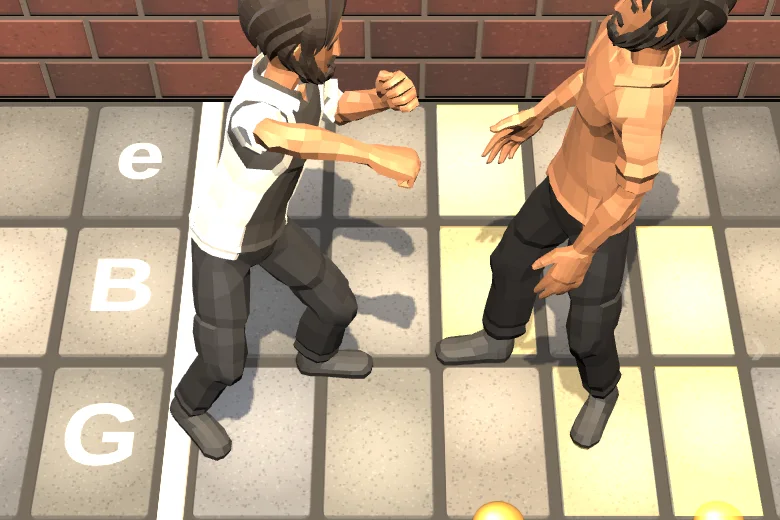
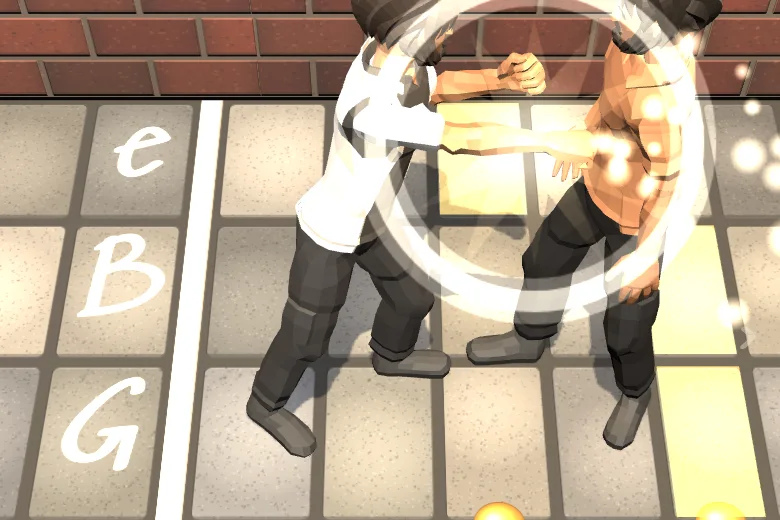
Fret Fighter: graffiti lettering written on the wall and floor, new arcade button

diff --git a/fret-fighter.html b/fret-fighter.html
@@ -11,80 +11,101 @@
 <meta name="application-name" content="Echo Alpha Delta">
 <title>Fret Fighter | Echo Alpha Delta</title>
 <link rel="preconnect" href="https://fonts.googleapis.com">
-<link href="https://fonts.googleapis.com/css2?family=Big+Shoulders+Display:wght@700;900&display=swap" rel="stylesheet">
+<link href="https://fonts.googleapis.com/css2?family=Sedgwick+Ave&family=Sedgwick+Ave+Display&display=swap" rel="stylesheet">
 <style>
+/* Everything is written on the alley: tags in spray paint, notes in marker, nothing set in boxes */
 * { box-sizing: border-box; -webkit-tap-highlight-color: transparent; }
 html, body { margin: 0; padding: 0; background: #0b0806; overflow: hidden; }
-body { color: #f3ead6; font-family: 'Big Shoulders Display', sans-serif; -webkit-user-select: none; user-select: none; }
+body { color: #f4efe4; font-family: 'Sedgwick Ave', cursive; -webkit-user-select: none; user-select: none; }
 .wrap { max-width: 520px; margin: 0 auto; position: relative; }
-.top { display: flex; justify-content: space-between; align-items: center; height: 34px; padding: 0 12px; font-weight: 700; font-size: 16px; letter-spacing: 2px; }
-.top a, .top button { color: #8a8494; text-decoration: none; background: none; border: none; padding: 0; font: inherit; cursor: pointer; }
+.top { display: flex; justify-content: space-between; align-items: center; height: 34px; padding: 0 12px; font-size: 17px; }
+.top a, .top button { color: #9a9284; text-decoration: none; background: none; border: none; padding: 0; font: inherit; cursor: pointer; }
+.top a { transform: rotate(-2deg); } .top button { transform: rotate(1.5deg); }
 .stage { position: relative; overflow: hidden; touch-action: none; }
 #cv { display: block; width: 100%; height: 100%; cursor: pointer; }
-/* the fight card over the top of the scene */
-.hud { position: absolute; left: 0; right: 0; top: 0; pointer-events: none; padding: 8px 14px 0; background: linear-gradient(rgba(8,6,4,0.92), rgba(8,6,4,0.55) 70%, rgba(8,6,4,0)); }
+/* paint: a soft overspray halo round every tag so it reads on brick */
+.paint { text-shadow: 0 0 2px rgba(10,6,4,0.9), 0 0 10px rgba(10,6,4,0.7), 0 0 22px rgba(10,6,4,0.45); }
+.hud { position: absolute; left: 0; right: 0; top: 0; pointer-events: none; height: 250px; }
 .hud.hidden { display: none; }
-.names { display: flex; justify-content: space-between; align-items: flex-end; font-weight: 900; font-size: 20px; line-height: 1; }
-.bars { display: flex; justify-content: space-between; align-items: center; gap: 10px; margin-top: 6px; }
-.bar { flex: 1; height: 9px; background: #1c1a22; position: relative; }
-.bar i { position: absolute; top: 1px; bottom: 1px; left: 1px; background: #e8e0d0; transition: width 0.25s; }
-.bar.r i { left: auto; right: 1px; }
-.bar i.low { background: #ffcc44; }
-.clock { font-weight: 700; font-size: 16px; color: #8a8494; min-width: 40px; text-align: center; }
-.call { text-align: center; margin-top: 6px; }
-.call .chord { font-weight: 900; font-size: 84px; line-height: 0.95; }
-.call .zone { font-weight: 900; font-size: 22px; color: #ffcc44; letter-spacing: 1px; }
-.call .zone.danger { color: #ff9a6a; }
-.prog { display: flex; justify-content: center; gap: 6px; margin-top: 6px; font-weight: 700; font-size: 15px; color: #8a8494; }
-.prog span { padding: 1px 6px; border: 1px solid #3a3640; }
-.prog span.now { color: #f3ead6; border-color: #f3ead6; }
-.prog span.done { color: #ffcc44; border-color: #ffcc44; }
-.timer { height: 4px; margin: 8px auto 0; width: 60%; background: #1c1a22; }
-.timer i { display: block; height: 100%; width: 100%; background: #ff9a6a; }
+.tagname { position: absolute; top: 4px; font-size: 22px; line-height: 1; }
+.tagname.l { left: 12px; transform: rotate(-4deg); } .tagname.r { right: 12px; transform: rotate(3deg); }
+/* health is a sprayed stroke that gets scrubbed away from its far end */
+.stroke { position: absolute; top: 32px; width: 40%; height: 12px; }
+.stroke.l { left: 10px; transform: rotate(-1.5deg); } .stroke.r { right: 10px; transform: rotate(1.2deg); }
+.stroke i { position: absolute; top: 0; bottom: 0; left: 0; background: #f4efe4; border-radius: 6px 3px 7px 2px; box-shadow: 0 0 6px rgba(244,239,228,0.45); transition: width 0.25s; }
+.stroke i::after { content: ''; position: absolute; right: -6px; top: 1px; width: 10px; height: 10px; border-radius: 50%; background: inherit; opacity: 0.7; }
+.stroke.r i { left: auto; right: 0; }
+.stroke.r i::after { right: auto; left: -6px; }
+.stroke i.low { background: #ffcc44; box-shadow: 0 0 6px rgba(255,204,68,0.5); }
+.clock { position: absolute; top: 22px; left: 0; right: 0; text-align: center; font-size: 18px; color: #b8b0a2; transform: rotate(-1deg); }
+/* the call: the chord sprayed big and crooked, the zone scrawled under it */
+.call { position: absolute; top: 66px; left: 0; right: 0; text-align: center; }
+.call .chord { display: inline-block; font-family: 'Sedgwick Ave Display', cursive; font-size: 104px; line-height: 0.9; transform: rotate(-5deg); }
+.call .zone { font-size: 30px; color: #ffcc44; transform: rotate(2.5deg) translateX(18px); margin-top: -6px; }
+.call .zone.danger { color: #ff9a6a; transform: rotate(-2deg) translateX(-14px); }
+/* the progression, chalked; chords you've landed are struck through */
+.prog { display: flex; justify-content: center; gap: 16px; margin-top: 2px; font-size: 22px; color: #9a9284; }
+.prog span { position: relative; }
+.prog span:nth-child(odd) { transform: rotate(-4deg); } .prog span:nth-child(even) { transform: rotate(3deg) translateY(2px); }
+.prog span.now { color: #f4efe4; }
+.prog span.done { color: #ffcc44; }
+.prog span.done::after { content: ''; position: absolute; left: -5px; right: -5px; top: 52%; height: 3px; background: #ffcc44; transform: rotate(-12deg); border-radius: 2px; }
+.timer { height: 5px; margin: 10px auto 0; width: 58%; transform: rotate(-1deg); }
+.timer i { display: block; height: 100%; width: 100%; background: #ff9a6a; border-radius: 3px; }
 .timer.off { visibility: hidden; }
-.msg { position: absolute; left: 0; right: 0; bottom: 18px; text-align: center; font-weight: 900; font-size: 26px; pointer-events: none; text-shadow: 0 2px 6px rgba(0,0,0,0.9); opacity: 0; transition: opacity 0.2s; }
-.msg.on { opacity: 1; }
-.msg small { display: block; font-weight: 700; font-size: 16px; color: #d8d0c0; margin-top: 2px; }
-.pan { position: absolute; bottom: 50%; font-weight: 900; font-size: 28px; color: rgba(243,234,214,0.35); pointer-events: none; }
+.msg { position: absolute; left: 0; right: 0; bottom: 22px; text-align: center; font-family: 'Sedgwick Ave Display', cursive; font-size: 46px; line-height: 1; pointer-events: none; opacity: 0; transform: rotate(-4deg) scale(0.9); transition: opacity 0.15s, transform 0.15s; }
+.msg.on { opacity: 1; transform: rotate(-4deg) scale(1); }
+.msg small { display: block; font-family: 'Sedgwick Ave', cursive; font-size: 20px; color: #e4dccc; margin-top: 6px; transform: rotate(3deg); }
+.pan { position: absolute; bottom: 50%; font-size: 34px; color: rgba(244,239,228,0.4); pointer-events: none; }
 .pan.l { left: 6px; } .pan.r { right: 6px; }
-/* the card between fights */
-.over { position: absolute; inset: 0; z-index: 5; background: rgba(8,6,4,0.9); padding: 26px 22px; overflow: auto; }
+/* between fights: no panel, just a darker patch of wall with the writing on it */
+.over { position: absolute; inset: 0; z-index: 5; background: radial-gradient(ellipse 90% 70% at 45% 40%, rgba(8,5,3,0.86), rgba(8,5,3,0.55)); overflow: auto; padding: 18px 16px 30px; }
 .over.hidden { display: none; }
-.over h1 { margin: 0; font-weight: 900; font-size: 64px; line-height: 0.9; letter-spacing: -1px; }
-.over .kick { font-weight: 700; font-size: 15px; letter-spacing: 4px; color: #8a8494; margin-bottom: 8px; }
-.over p { margin: 0 0 12px; font-family: Georgia, serif; font-size: 16px; line-height: 1.45; color: #ddd6c8; }
-.over p b { color: #ffcc44; font-family: 'Big Shoulders Display', sans-serif; font-weight: 900; font-size: 18px; letter-spacing: 0.5px; }
-.over .big { font-weight: 900; font-size: 72px; line-height: 1; margin: 6px 0; }
-.over table { border-collapse: collapse; margin: 6px 0 14px; font-weight: 700; font-size: 18px; }
-.over td { padding: 1px 16px 1px 0; } .over tr.me td { color: #ffcc44; }
-.go { display: inline-block; margin: 6px 10px 14px 0; padding: 10px 22px 8px; background: #f3ead6; color: #0b0806; font-weight: 900; font-size: 22px; letter-spacing: 2px; cursor: pointer; }
-.go.alt { background: none; color: #f3ead6; border: 2px solid #f3ead6; }
-.ini { display: flex; gap: 10px; align-items: center; margin: 4px 0 14px; }
-.ini input { width: 110px; font: inherit; font-weight: 900; font-size: 34px; letter-spacing: 4px; text-transform: uppercase; background: none; color: #f3ead6; border: none; border-bottom: 3px solid #f3ead6; border-radius: 0; padding: 0 0 0 2px; }
+.over .title { font-family: 'Sedgwick Ave Display', cursive; font-size: 92px; line-height: 0.82; margin: 22px 0 0 -2px; transform: rotate(-7deg); transform-origin: 0 50%; }
+.over .title span { display: block; margin-left: 50px; }
+.over .crew { font-size: 18px; color: #9a9284; transform: rotate(4deg); margin: 6px 0 0 150px; }
+.over .note { position: relative; font-size: 21px; line-height: 1.25; margin: 22px 0 0; max-width: 92%; }
+.over .note:nth-of-type(2n) { transform: rotate(-1.6deg); margin-left: 14px; }
+.over .note:nth-of-type(2n+1) { transform: rotate(1.2deg); }
+.over .note b { font-weight: 400; color: #ffcc44; }
+.over .note.num { padding-left: 34px; }
+.over .note .n { position: absolute; left: 0; top: -6px; font-family: 'Sedgwick Ave Display', cursive; font-size: 32px; color: #ffcc44; opacity: 0.85; transform: rotate(-12deg); }
+.over .big { font-family: 'Sedgwick Ave Display', cursive; font-size: 96px; line-height: 0.9; transform: rotate(-4deg); margin: 6px 0 4px 10px; }
+/* the button is a word circled in paint */
+.go { position: relative; display: inline-block; margin: 26px 0 18px 40px; padding: 8px 26px 10px; font-family: 'Sedgwick Ave Display', cursive; font-size: 46px; line-height: 1; color: #f4efe4; cursor: pointer; transform: rotate(-3deg); }
+.go::before { content: ''; position: absolute; inset: -4px -10px; border: 4px solid #ffcc44; border-radius: 52% 46% 55% 43% / 58% 50% 48% 54%; transform: rotate(5deg); }
+.go::after { content: ''; position: absolute; inset: -9px -4px -2px -16px; border: 2px solid rgba(255,204,68,0.55); border-radius: 46% 54% 42% 56% / 50% 58% 46% 52%; transform: rotate(-4deg); }
+.wallnames { margin: 4px 0 10px 18px; font-size: 22px; line-height: 1.35; }
+.wallnames div:nth-child(odd) { transform: rotate(-2deg); } .wallnames div:nth-child(even) { transform: rotate(1.5deg) translateX(10px); }
+.wallnames .me { color: #ffcc44; }
+.wallnames .hd { font-size: 17px; color: #9a9284; }
+.ini { display: flex; gap: 16px; align-items: flex-end; margin: 8px 0 14px 16px; transform: rotate(-2deg); }
+.ini input { width: 120px; font-family: 'Sedgwick Ave Display', cursive; font-size: 46px; letter-spacing: 4px; text-transform: uppercase; background: none; color: #f4efe4; border: none; border-bottom: 3px dashed #f4efe4; border-radius: 0; padding: 0 0 0 4px; }
 .ini input:focus { outline: none; }
-.ini button { background: #f3ead6; color: #0b0806; border: none; padding: 8px 14px; font: inherit; font-weight: 900; font-size: 18px; letter-spacing: 2px; cursor: pointer; }
+.ini button { background: none; border: none; color: #ffcc44; font-family: 'Sedgwick Ave Display', cursive; font-size: 34px; cursor: pointer; padding: 0; }
 .flash { position: absolute; inset: 0; pointer-events: none; background: #fff6e8; opacity: 0; }
-.loading { position: absolute; inset: 0; display: flex; align-items: center; justify-content: center; font-weight: 700; letter-spacing: 3px; color: #8a8494; }
+.loading { position: absolute; inset: 0; display: flex; align-items: center; justify-content: center; font-size: 24px; color: #9a9284; transform: rotate(-3deg); }
 </style>
 <script type="importmap">{ "imports": { "three": "./lib/three.module.min.js", "three/addons/": "./lib/jsm/" } }</script>
 </head>
 <body>
 <div class="wrap">
   <div class="top">
-    <a href="arcade.html">&lt; ARCADE</a>
-    <button id="snd">SOUND ON</button>
+    <a href="arcade.html">&larr; arcade</a>
+    <button id="snd">sound on</button>
   </div>
   <div class="stage" id="stage">
     <canvas id="cv" aria-label="Fret Fighter: the floor is the fretboard"></canvas>
     <div class="hud hidden" id="hud">
-      <div class="names"><span>YOU</span><span>THE BRAWLER</span></div>
-      <div class="bars"><div class="bar"><i id="hpYou" style="width:calc(100% - 2px)"></i></div><span class="clock" id="clock">0:00</span><div class="bar r"><i id="hpHim" style="width:calc(100% - 2px)"></i></div></div>
-      <div class="call"><div class="chord" id="chord">&nbsp;</div><div class="zone" id="zone">&nbsp;</div><div class="prog" id="prog"></div><div class="timer off" id="timer"><i id="timerBar"></i></div></div>
+      <div class="tagname l paint">you</div><div class="tagname r paint">the brawler</div>
+      <div class="stroke l"><i id="hpYou" style="width:100%"></i></div><div class="stroke r"><i id="hpHim" style="width:100%"></i></div>
+      <div class="clock paint" id="clock">0:00</div>
+      <div class="call"><div class="chord paint" id="chord">&nbsp;</div><div class="zone paint" id="zone">&nbsp;</div><div class="prog paint" id="prog"></div><div class="timer off" id="timer"><i id="timerBar"></i></div></div>
     </div>
     <div class="pan l" id="panL">&lsaquo;</div><div class="pan r" id="panR">&rsaquo;</div>
     <div class="flash" id="flash"></div>
-    <div class="msg" id="msg"></div>
-    <div class="loading" id="loading">LOADING</div>
+    <div class="msg paint" id="msg"></div>
+    <div class="loading" id="loading">warming up...</div>
     <div class="over hidden" id="over"></div>
   </div>
 </div>
@@ -279,7 +300,8 @@ const X0 = -1.0, X1 = colEdge(16), Z0 = 0, Z1 = 6 * ROWH;
 const rowZ = s => Z1 - (s + 0.5) * ROWH;                      // centre of a string's row
 const cellX = f => f === 0 ? OPEN / 2 : (colEdge(f) + colEdge(f + 1)) / 2;
 const cellW = f => f === 0 ? OPEN : colEdge(f + 1) - colEdge(f);
-(function floor() {
+async function floor() {
+  try { await Promise.race([document.fonts.load("120px 'Sedgwick Ave'"), new Promise(r => setTimeout(r, 2500))]); } catch (e) {}
   const PPM = 300, CW = Math.round((X1 - X0) * PPM), CH = Math.round((Z1 - Z0) * PPM);
   const tc = document.createElement('canvas'), bc = document.createElement('canvas'); tc.width = bc.width = CW; tc.height = bc.height = CH;
   const g = tc.getContext('2d'), gb = bc.getContext('2d'); g.fillStyle = '#2c2b29'; g.fillRect(0, 0, CW, CH); gb.fillStyle = '#181818'; gb.fillRect(0, 0, CW, CH);
@@ -293,10 +315,11 @@ const cellW = f => f === 0 ? OPEN : colEdge(f + 1) - colEdge(f);
   [3, 5, 7, 9, 15].forEach(f => stud(f, 3)); stud(12, 2); stud(12, 4);
   // string names chalked on the open-string stones, and a fret number chalked small at the front of the marked frets
   g.textAlign = 'center'; g.textBaseline = 'middle';
-  ['E', 'A', 'D', 'G', 'B', 'e'].forEach((n, s) => { g.font = 'bold 120px sans-serif'; g.fillStyle = 'rgba(236,232,222,0.82)'; g.fillText(n, px(OPEN / 2), pz(rowZ(s))); });
+  ['E', 'A', 'D', 'G', 'B', 'e'].forEach((n, s) => { g.save(); g.translate(px(OPEN / 2), pz(rowZ(s))); g.rotate(-0.12 + (s % 2) * 0.16); g.font = "150px 'Sedgwick Ave', cursive"; g.fillStyle = 'rgba(240,236,226,0.85)'; g.fillText(n, 0, 0); g.restore(); });
   const t = texOf(tc, true), mesh = new THREE.Mesh(new THREE.PlaneGeometry(X1 - X0, Z1 - Z0), new THREE.MeshStandardMaterial({ map: t, bumpMap: texOf(bc), bumpScale: 2.5, roughness: 0.9 }));
   mesh.rotation.x = -Math.PI / 2; mesh.position.set((X0 + X1) / 2, 0, (Z0 + Z1) / 2); mesh.receiveShadow = true; scene.add(mesh);
-})();
+}
+await floor();
 
 // light laid on the stones: a row hint, and the cells of a shape when it lands
 const glows = [];
@@ -346,16 +369,16 @@ function ctxA() { return ac || (ac = new (window.AudioContext || window.webkitAu
 function note(midi, when, dur, vol) { if (!soundOn) return; try { const a = ctxA(), t = a.currentTime + (when || 0), o = a.createOscillator(), g = a.createGain(); o.type = 'triangle'; o.frequency.value = 440 * Math.pow(2, (midi - 69) / 12); g.gain.setValueAtTime(0.0001, t); g.gain.exponentialRampToValueAtTime(vol || 0.1, t + 0.01); g.gain.exponentialRampToValueAtTime(0.0001, t + (dur || 0.6)); o.connect(g); g.connect(a.destination); o.start(t); o.stop(t + (dur || 0.6) + 0.05); } catch (e) {} }
 function thud(vol, cut) { if (!soundOn) return; try { const a = ctxA(), n = a.createBufferSource(), b = a.createBuffer(1, a.sampleRate * 0.25, a.sampleRate), d = b.getChannelData(0); for (let i = 0; i < d.length; i++) d[i] = (Math.random() * 2 - 1) * Math.pow(1 - i / d.length, 4); n.buffer = b; const f = a.createBiquadFilter(); f.type = 'lowpass'; f.frequency.value = cut || 500; const g = a.createGain(); g.gain.value = vol || 0.6; n.connect(f); f.connect(g); g.connect(a.destination); n.start(); } catch (e) {} }
 const OPEN_MIDI = [40, 45, 50, 55, 59, 64];
-document.getElementById('snd').onclick = () => { soundOn = !soundOn; try { localStorage.setItem(SOUND_KEY, soundOn ? '1' : '0'); } catch (e) {} document.getElementById('snd').textContent = soundOn ? 'SOUND ON' : 'SOUND OFF'; };
+document.getElementById('snd').onclick = () => { soundOn = !soundOn; try { localStorage.setItem(SOUND_KEY, soundOn ? '1' : '0'); } catch (e) {} document.getElementById('snd').textContent = soundOn ? 'sound on' : 'sound off'; };
 try { soundOn = localStorage.getItem(SOUND_KEY) !== '0'; } catch (e) {}
-document.getElementById('snd').textContent = soundOn ? 'SOUND ON' : 'SOUND OFF';
+document.getElementById('snd').textContent = soundOn ? 'sound on' : 'sound off';
 
 // ---- The fight ----------------------------------------------------------------
 let you, him, state = 'loading', hpYou = HP, hpHim = HP, fightT = 0, turnT = 0, keyName = 'G', prog = [], step = 0, streak = 0, turnsSinceTheirs = 0, ask = null, wait = 0, after = null, hits = 0, blocks = 0, misses = 0;
 const $ = id => document.getElementById(id);
 const fmt = s => Math.floor(s / 60) + ':' + (s % 60).toFixed(1).padStart(4, '0');
 function say(big, small, ms) { const m = $('msg'); m.innerHTML = big + (small ? `<small>${small}</small>` : ''); m.classList.add('on'); clearTimeout(say.t); say.t = setTimeout(() => m.classList.remove('on'), ms || 1400); }
-function bars() { $('hpYou').style.width = `calc(${Math.max(0, hpYou)}% - 2px)`; $('hpHim').style.width = `calc(${Math.max(0, hpHim)}% - 2px)`; $('hpYou').className = hpYou < 30 ? 'low' : ''; $('hpHim').className = hpHim < 30 ? 'low' : ''; }
+function bars() { $('hpYou').style.width = Math.max(0, hpYou) + '%'; $('hpHim').style.width = Math.max(0, hpHim) + '%'; $('hpYou').className = hpYou < 30 ? 'low' : ''; $('hpHim').className = hpHim < 30 ? 'low' : ''; }
 function progChips() { const done = streak % 4; $('prog').innerHTML = prog.map((c, i) => `<span class="${i < done ? 'done' : ask && ask.mine && i === step % 4 ? 'now' : ''}">${c[0]}</span>`).join(''); }
 
 function startFight() {
@@ -370,7 +393,7 @@ function yourTurn() {
   const c = prog[step % 4], ok = zonesFor(pcOf(c[0])), z = ok[Math.floor(Math.random() * ok.length)];
   ask = { mine: true, name: c[0], q: c[1], pc: pcOf(c[0]), zone: ZONES[z] };
   state = 'yours'; turnT = 0;
-  $('chord').textContent = ask.name; $('zone').textContent = ask.zone.name + ' OPEN'; $('zone').className = 'zone'; $('timer').className = 'timer off';
+  $('chord').textContent = ask.name; $('zone').textContent = ask.zone.name.toLowerCase() + ' open'; $('zone').className = 'zone'; $('timer').className = 'timer off';
   setHint(ask.zone.string); progChips();
 }
 // his turn: he calls a chord and where he's aiming; block it in time
@@ -378,7 +401,7 @@ function theirTurn() {
   const c = prog[Math.floor(Math.random() * 4)], ok = zonesFor(pcOf(c[0])), z = ok[Math.floor(Math.random() * ok.length)];
   ask = { mine: false, name: c[0], q: c[1], pc: pcOf(c[0]), zone: ZONES[z], limit: Math.max(3.2, 5 - fightT / 60) };
   state = 'theirs'; turnT = 0; turnsSinceTheirs = 0;
-  $('chord').textContent = ask.name; $('zone').textContent = 'BLOCK ' + ask.zone.block; $('zone').className = 'zone danger'; $('timer').className = 'timer';
+  $('chord').textContent = ask.name; $('zone').textContent = 'block ' + ask.zone.block.toLowerCase() + '!'; $('zone').className = 'zone danger'; $('timer').className = 'timer';
   setHint(ask.zone.string); progChips();
 }
 // the zones where this chord's root sits in the first five frets; every note has at least one
@@ -403,10 +426,10 @@ function tapCell(s, f) {
   note(OPEN_MIDI[s] + f, 0, 0.5, 0.08);
   if (state === 'yours') {
     if (s === z.string && pc === ask.pc) return landHit(s, f);
-    if (s !== z.string) { streak = 0; misses++; cellGlow(f, s, '#8a8494', 0.6, 0.6); say('BLOCKED', `He's covering that. ${z.name.toLowerCase()} is the ${STRING_NAMES[z.string]} string`); thud(0.3, 2500); progChips(); return; }
+    if (s !== z.string) { streak = 0; misses++; cellGlow(f, s, '#8a8494', 0.6, 0.6); say('blocked', `he's covering that. ${z.name.toLowerCase()} is the ${STRING_NAMES[z.string]} string`); thud(0.3, 2500); progChips(); return; }
     // right string, wrong fret: you swing at air and he punishes it
     streak = 0; misses++; cellGlow(f, s, '#8a8494', 0.6, 0.6);
-    say('MISSED', `That's ${NOTE_NAMES[pc]}. Find ${ask.name.replace('m', '')} on the ${STRING_NAMES[s]} string`);
+    say('missed!', `that's ${NOTE_NAMES[pc]}. find ${ask.name.replace('m', '')} on the ${STRING_NAMES[s]} string`);
     strike(you, him, z.hit, { zone: z.name, whiff: true }); state = 'busy';
     setTimeout(() => strike(him, you, 'Punch_Right', { zone: 'BODY', power: 0.7, react: 'HitRecieve', onImpact: () => { hurt('you', 6); setTimeout(() => { if (state === 'busy') { state = 'yours'; turnT = 0; } }, 700); } }), 550);
     progChips(); return;
@@ -415,7 +438,7 @@ function tapCell(s, f) {
   if (s === z.string && pc === ask.pc) {
     blocks++; state = 'busy'; hintOn = false; $('timer').className = 'timer off';
     lightShape(z, ask, f, '#e8e0d0');
-    strike(him, you, z.hit, { zone: z.name, guard: true, power: 0.6, onImpact: () => setTimeout(nextTurn, 800) }); say('BLOCKED', `${ask.name} on the ${STRING_NAMES[s]} string`);
+    strike(him, you, z.hit, { zone: z.name, guard: true, power: 0.6, onImpact: () => setTimeout(nextTurn, 800) }); say('blocked!', `${ask.name} on the ${STRING_NAMES[s]} string`);
     return;
   }
   cellGlow(f, s, '#8a8494', 0.5, 0.6);
@@ -428,7 +451,7 @@ function landHit(s, f) {
   lightShape(z, ask, f, '#ffcc44');
   strike(you, him, finisher ? 'Kick_Left' : z.hit, { zone: finisher ? 'BODY' : z.name, power: finisher ? 1.6 : speed < 2.5 ? 1.15 : 0.85, react: finisher ? 'HitRecieve' : 'HitRecieve_2',
     onImpact: () => { hurt('him', dmg + (finisher ? 18 : 0)); if (state !== 'over') setTimeout(nextTurn, 950); } });
-  say(finisher ? 'FINISHER' : speed < 2.5 ? 'CLEAN HIT' : 'HIT', finisher ? `The whole progression in ${keyName}` : `${ask.name} with the ${z.shape.toUpperCase()} shape`, 1200);
+  say(finisher ? 'finisher!!' : speed < 2.5 ? 'clean hit!' : 'hit!', finisher ? `the whole progression in ${keyName}` : `${ask.name} with the ${z.shape} shape`, 1200);
   progChips();
 }
 function nextTurn() {
@@ -536,41 +559,41 @@ function timeOut() {
   // too slow: his shot lands
   state = 'busy'; hintOn = false; $('timer').className = 'timer off';
   strike(him, you, ask.zone.hit, { zone: ask.zone.name, power: 1.1, react: 'HitRecieve', onImpact: () => { hurt('you', 14); if (state !== 'over') setTimeout(nextTurn, 900); } });
-  say('HIT', `${ask.name} was on the ${STRING_NAMES[ask.zone.string]} string`);
+  say('ouch', `${ask.name} was on the ${STRING_NAMES[ask.zone.string]} string`);
   lightShape(ask.zone, ask, findFrets(GRIP_CONFIG[ask.zone.shape].anchor, ask.pc)[0], '#8a8494');
 }
 
 // ---- End of the fight --------------------------------------------------------
 function times() { try { return JSON.parse(localStorage.getItem(HS_KEY)) || []; } catch (e) { return []; } }
-function table(hi) { const t = times(); if (!t.length) return ''; return '<table>' + t.map((e, i) => `<tr class="${i === hi ? 'me' : ''}"><td>${i + 1}</td><td>${e.i}</td><td>${fmt(e.s)}</td></tr>`).join('') + '</table>'; }
+function table(hi) { const t = times(); if (!t.length) return ''; return '<div class="wallnames paint"><div class="hd">fastest knockouts on this wall</div>' + t.map((e, i) => `<div class="${i === hi ? 'me' : ''}">${e.i} ${fmt(e.s)}</div>`).join('') + '</div>'; }
 let finalT = 0;
 function win() {
   state = 'over'; hpHim = 0; bars(); hintOn = false; him.play('Death', true); finalT = fightT; slow = 1.1; trauma = 1; freeze = 0.18;
   const t = times(), ok = t.length < 10 || finalT < t[t.length - 1].s;
-  setTimeout(() => { $('hud').className = 'hud hidden'; overlay(`<div class="kick">KNOCKOUT IN THE KEY OF ${keyName}</div><h1>YOU WIN</h1><div class="big">${fmt(finalT)}</div>
-    <p>${hits} ${hits === 1 ? 'hit' : 'hits'}, ${blocks} ${blocks === 1 ? 'block' : 'blocks'}, ${misses} ${misses === 1 ? 'miss' : 'misses'}.</p>
-    ${ok ? `<p>Sign your name on the wall:</p><div class="ini"><input id="initials" maxlength="3" autocomplete="off" autocapitalize="characters" spellcheck="false"><button id="sign">SIGN</button></div>` : '<span class="go" id="again">FIGHT AGAIN</span>' + table(-1)}`);
+  setTimeout(() => { $('hud').className = 'hud hidden'; overlay(`<div class="title paint">knock<span>out!</span></div><div class="crew paint">in the key of ${keyName}</div><div class="big paint">${fmt(finalT)}</div>
+    <div class="note paint">${hits} ${hits === 1 ? 'hit' : 'hits'}, ${blocks} ${blocks === 1 ? 'block' : 'blocks'}, ${misses} ${misses === 1 ? 'miss' : 'misses'}</div>
+    ${ok ? `<div class="note paint">put your name on the wall</div><div class="ini paint"><input id="initials" maxlength="3" autocomplete="off" autocapitalize="characters" spellcheck="false"><button id="sign">tag it</button></div>` : '<span class="go paint" id="again">again</span>' + table(-1)}`);
     if (ok) { $('sign').onclick = sign; setTimeout(() => $('initials').focus(), 50); } else $('again').onclick = startFight; }, 1800);
 }
 function lose() {
   state = 'over'; hpYou = 0; bars(); hintOn = false; you.play('Death', true); slow = 1.1; trauma = 1; freeze = 0.18;
-  setTimeout(() => { $('hud').className = 'hud hidden'; overlay(`<div class="kick">THE KEY OF ${keyName}</div><h1>KNOCKED<br>DOWN</h1><p>Every root he calls sits in the first five frets of the string for the open zone. Count up from the kerb: open, 1, 2, 3, 4, with the brass stud on 3.</p><span class="go" id="again">GET UP</span>`); $('again').onclick = startFight; }, 1800);
+  setTimeout(() => { $('hud').className = 'hud hidden'; overlay(`<div class="title paint">down<span>and out</span></div><div class="crew paint">in the key of ${keyName}</div><div class="note paint">every root he calls is in the first five frets of that string. count up from the kerb: open, 1, 2, 3, 4. the brass stud is on 3.</div><span class="go paint" id="again">get up</span>`); $('again').onclick = startFight; }, 1800);
 }
 function sign() {
   const raw = ($('initials').value || '').toUpperCase().replace(/[^A-Z0-9]/g, ''), entry = { i: (raw || 'AAA').slice(0, 3).padEnd(3, 'A'), s: +finalT.toFixed(1) };
   const t = times(); t.push(entry); t.sort((a, b) => a.s - b.s); try { localStorage.setItem(HS_KEY, JSON.stringify(t.slice(0, 10))); } catch (e) {}
-  overlay(`<div class="kick">ON THE WALL</div><h1>YOU WIN</h1><div class="big">${fmt(finalT)}</div><span class="go" id="again">FIGHT AGAIN</span>${table(t.slice(0, 10).indexOf(entry))}`); $('again').onclick = startFight;
+  overlay(`<div class="title paint">knock<span>out!</span></div><div class="big paint">${fmt(finalT)}</div>${table(t.slice(0, 10).indexOf(entry))}<span class="go paint" id="again">again</span>`); $('again').onclick = startFight;
 }
 document.addEventListener('keydown', e => { if (e.key === 'Enter' && $('initials')) sign(); });
 function overlay(html) { $('over').innerHTML = html; $('over').className = 'over'; }
 function showStart() {
   state = 'start'; $('hud').className = 'hud hidden';
-  overlay(`<div class="kick">ECHO ALPHA DELTA</div><h1>FRET<br>FIGHTER</h1>
-    <p>The floor is the fretboard. Each row of stones is a string, each stone a fret.</p>
-    <p>He leaves one place open. <b>LEGS</b> is the low E string, <b>BODY</b> the A string, <b>HEAD</b> the D string. Tap the stone with the chord's root on that string and you strike with the shape that grows from it: Echo, Alpha or Delta.</p>
-    <p>When he winds up, tap the root he calls on the string for where he's aiming to <b>BLOCK</b> it before the bar runs out.</p>
-    <p>Every root is in the first five frets. Land the whole progression in a row for a <b>FINISHER</b>.</p>
-    <span class="go" id="fight">FIGHT</span>${table(-1)}`);
+  overlay(`<div class="title paint">fret<span>fighter</span></div><div class="crew paint">echo alpha delta</div>
+    <div class="note paint">the floor is the neck. every row of stones is a string, every stone a fret.</div>
+    <div class="note num paint"><span class="n">1</span>he leaves one spot open. <b>legs</b> = low E string, <b>body</b> = A, <b>head</b> = D. hit the chord's root on that string.</div>
+    <div class="note num paint"><span class="n">2</span>when he swings, hit the root he calls on his target's string to <b>block</b>. be quick.</div>
+    <div class="note num paint"><span class="n">3</span>every root is in the first five frets. land the whole progression for a <b>finisher</b>.</div>
+    <span class="go paint" id="fight">fight</span>${table(-1)}`);
   $('fight').onclick = startFight;
 }
 

diff --git a/arcade.html b/arcade.html
@@ -11,7 +11,7 @@
 <meta name="application-name" content="Echo Alpha Delta">
 <title>Arcade | Echo Alpha Delta</title>
 <link rel="preconnect" href="https://fonts.googleapis.com">
-<link href="https://fonts.googleapis.com/css2?family=Cinzel:wght@700&family=Press+Start+2P&family=IM+Fell+English&family=Jersey+10&family=Limelight&family=Special+Elite&family=UnifrakturMaguntia&family=Kanit:ital,wght@1,800&family=VT323&family=Tiny5&family=Jersey+15&family=Workbench&family=Rye&family=Courier+Prime&family=Zen+Dots&family=Share+Tech+Mono&family=Big+Shoulders+Display:wght@700;900&display=swap" rel="stylesheet">
+<link href="https://fonts.googleapis.com/css2?family=Cinzel:wght@700&family=Press+Start+2P&family=IM+Fell+English&family=Jersey+10&family=Limelight&family=Special+Elite&family=UnifrakturMaguntia&family=Kanit:ital,wght@1,800&family=VT323&family=Tiny5&family=Jersey+15&family=Workbench&family=Rye&family=Courier+Prime&family=Zen+Dots&family=Share+Tech+Mono&family=Sedgwick+Ave&family=Sedgwick+Ave+Display&display=swap" rel="stylesheet">
 <style>
 :root { --echo: #4a9eff; --alpha: #ff4a4a; --delta: #4aff7a; --ink: #f4f1ea; --dim: #6b6862; --bg: #000; }
 * { box-sizing: border-box; -webkit-tap-highlight-color: transparent; }
@@ -123,12 +123,14 @@ a { color: inherit; text-decoration: none; }
 .ww { position: relative; display: block; background: #120a05; filter: drop-shadow(0 6px 5px rgba(0,0,0,0.5)); }
 .ww img { display: block; width: 100%; height: auto; image-rendering: pixelated; }
 .ww .sub.best { position: absolute; left: 0; right: 0; bottom: 4%; text-align: center; font-family: 'Rye', serif; font-size: 17px; color: #1c120a; text-shadow: none; }
-.ff { display: block; background: #0b0806; border: 2px solid #3a3226; overflow: hidden; font-family: 'Big Shoulders Display', sans-serif; color: #f3ead6; }
+.ff { display: block; background: #0b0806; border: 2px solid #3a3226; overflow: hidden; font-family: 'Sedgwick Ave', cursive; color: #f4efe4; }
 .ff img { display: block; width: 100%; height: auto; }
-.ff .info { display: flex; justify-content: space-between; align-items: flex-end; padding: 10px 14px 12px; background: linear-gradient(#14100c, #0b0806); }
-.ff .name { font-weight: 900; font-size: 38px; line-height: 0.9; letter-spacing: -0.5px; }
-.ff .sub.best { font-weight: 700; font-size: 16px; color: #ffcc44; margin-top: 6px; }
-.ff .go { background: #f3ead6; color: #0b0806; padding: 7px 16px 5px; font-weight: 900; font-size: 22px; letter-spacing: 2px; }
+.ff .info { display: flex; justify-content: space-between; align-items: center; padding: 6px 16px 14px; background: linear-gradient(#14100c, #0b0806); }
+.ff .name { font-family: 'Sedgwick Ave Display', cursive; font-size: 46px; line-height: 0.85; transform: rotate(-5deg); transform-origin: 0 60%; margin-top: 8px; }
+.ff .name span { display: block; margin-left: 28px; }
+.ff .sub.best { font-size: 18px; color: #ffcc44; margin-top: 8px; transform: rotate(-2deg); }
+.ff .go { position: relative; font-family: 'Sedgwick Ave Display', cursive; font-size: 32px; color: #f4efe4; padding: 4px 16px 6px; transform: rotate(-3deg); }
+.ff .go::before { content: ''; position: absolute; inset: -2px -6px; border: 3px solid #ffcc44; border-radius: 52% 46% 55% 43% / 58% 50% 48% 54%; transform: rotate(5deg); }
 .pl { background: #0a0c16; color: #e8ecf8; border: 2px solid #2a2e44; border-radius: 8px; overflow: hidden; font-family: 'Share Tech Mono', monospace; }
 .pl svg { display: block; width: 100%; height: auto; aspect-ratio: 2 / 1; }
 .pl .info { display: flex; justify-content: space-between; align-items: flex-end; padding: 10px 14px 14px; }
@@ -268,8 +270,8 @@ a { color: inherit; text-decoration: none; }
   <a class="game ff" href="fret-fighter.html">
     <img src="fret-fighter-card.webp" alt="" width="780" height="520">
     <div class="info">
-      <div><div class="name">FRET<br>FIGHTER</div><div class="sub best" id="best13"></div></div>
-      <span class="go">FIGHT</span>
+      <div><div class="name">fret<span>fighter</span></div><div class="sub best" id="best13"></div></div>
+      <span class="go">fight</span>
     </div>
   </a>
 
@@ -338,7 +340,7 @@ try {
 } catch (e) {}
 try {
   const ff = JSON.parse(localStorage.getItem('fretFighterTimes')) || [];
-  if (ff.length) document.getElementById('best13').textContent = 'Fastest KO ' + Math.floor(ff[0].s / 60) + ':' + (ff[0].s % 60).toFixed(1).padStart(4, '0') + ' ' + ff[0].i;
+  if (ff.length) document.getElementById('best13').textContent = 'fastest KO ' + Math.floor(ff[0].s / 60) + ':' + (ff[0].s % 60).toFixed(1).padStart(4, '0') + ' ' + ff[0].i;
 } catch (e) {}
 // golf is scored against par, lowest first
 try {
